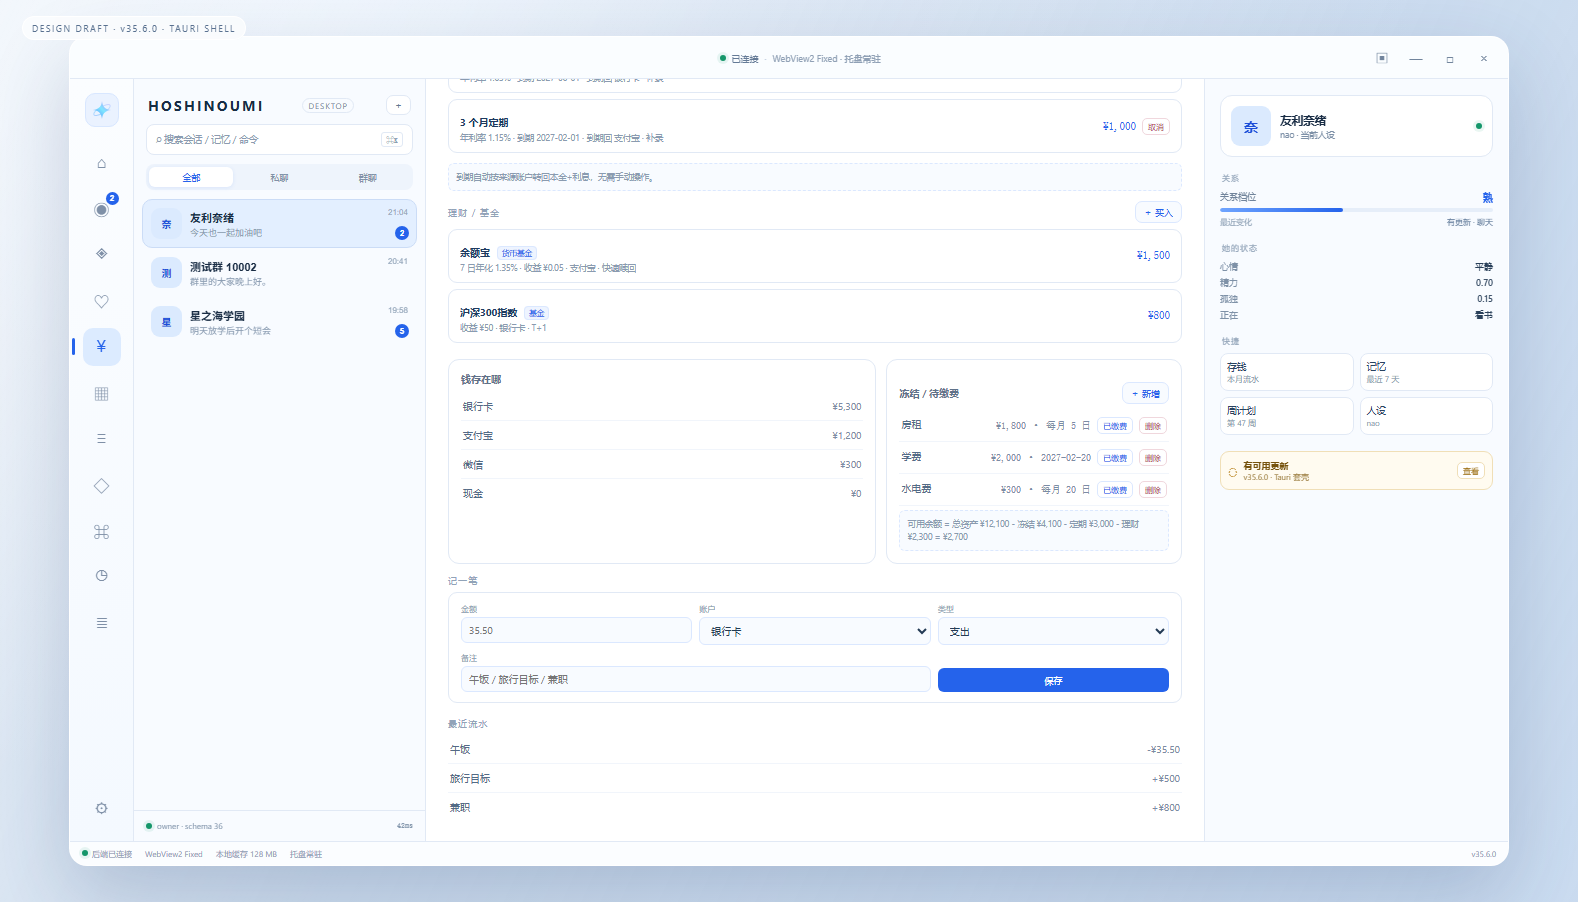
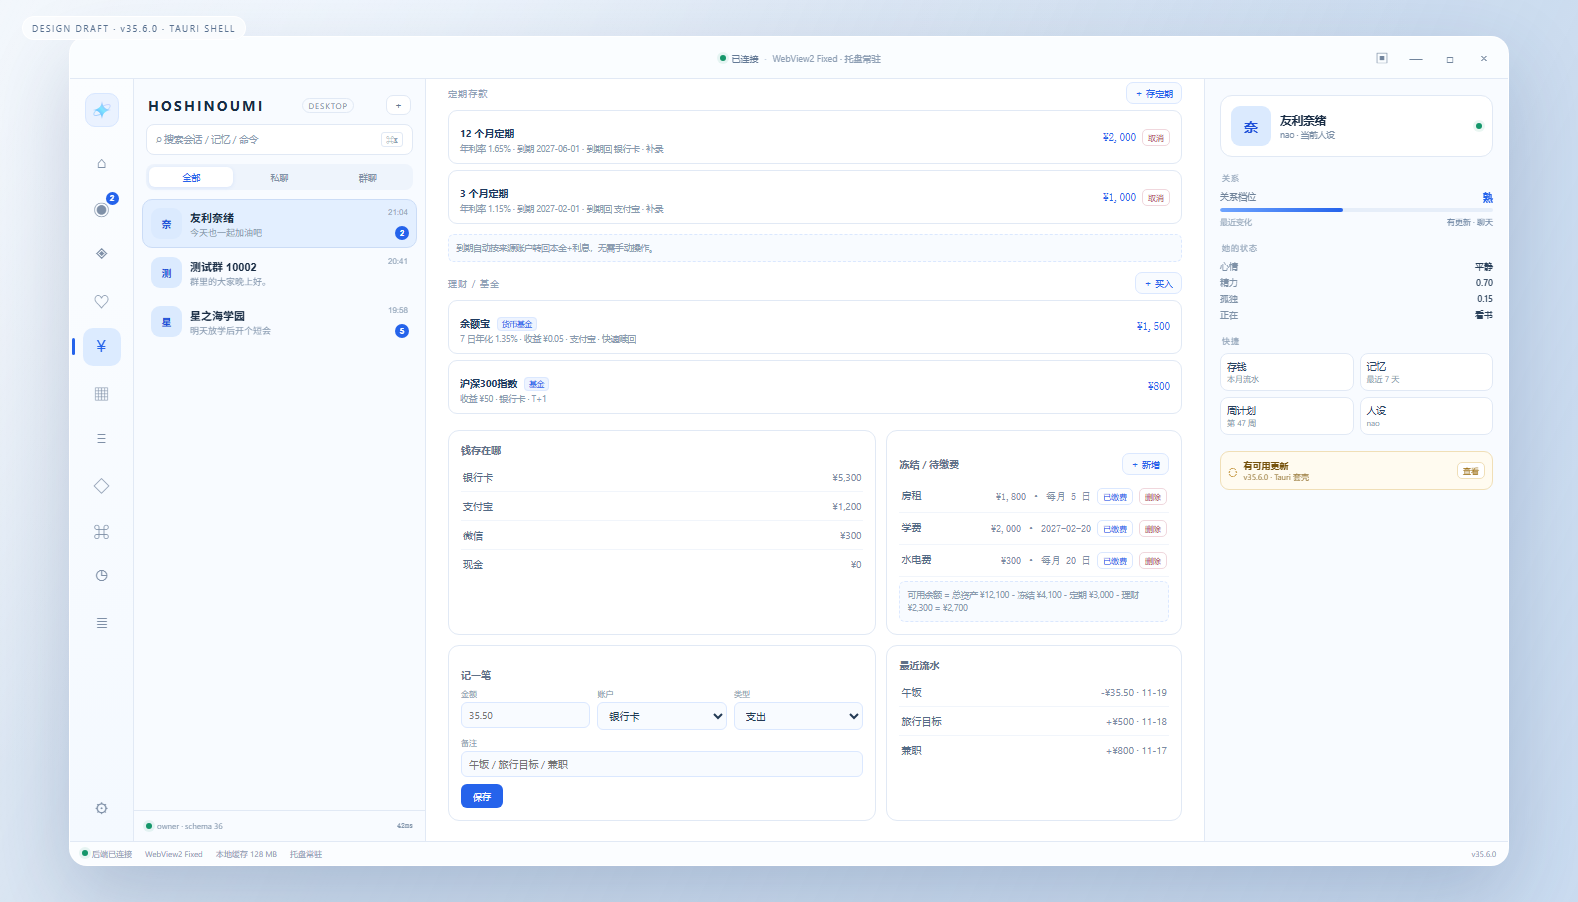
design(v35.6): 记一笔与流水双栏对齐网页

diff --git a/docs/design/v35/desktop/desktop.js b/docs/design/v35/desktop/desktop.js
@@ -83,8 +83,7 @@ function showPage(page){
     `<div class="sav-head"><div class="pv-sec" style="margin:0">定期存款</div><button class="sav-add" data-sav="fixed">＋ 存定期</button></div><div class="sav-list"><div class="sav-row"><div><b>12 个月定期</b><small>年利率 1.65% · 到期 2027-06-01 · 到期回 银行卡 · 补录</small></div><span class="sav-right">¥2,000<button class="sav-act danger" data-sav="cancel">取消</button></span></div><div class="sav-row"><div><b>3 个月定期</b><small>年利率 1.15% · 到期 2027-02-01 · 到期回 支付宝 · 补录</small></div><span class="sav-right">¥1,000<button class="sav-act danger" data-sav="cancel">取消</button></span></div><div class="sav-tip">到期自动按来源账户转回本金+利息，无需手动操作。</div></div>`+
     `<div class="sav-head"><div class="pv-sec" style="margin:0">理财 / 基金</div><button class="sav-add" data-sav="fund">＋ 买入</button></div><div class="sav-list"><div class="sav-row"><div><b>余额宝 <em>货币基金</em></b><small>7 日年化 1.35% · 收益 ¥0.05 · 支付宝 · 快速赎回</small></div><span>¥1,500</span></div><div class="sav-row"><div><b>沪深300指数 <em>基金</em></b><small>收益 ¥50 · 银行卡 · T+1</small></div><span>¥800</span></div></div>`+
     `<div class="mem-cols" style="margin-top:10px"><div class="pv-card"><h3>钱存在哪</h3><div class="pv-row">银行卡<span>¥5,300</span></div><div class="pv-row">支付宝<span>¥1,200</span></div><div class="pv-row">微信<span>¥300</span></div><div class="pv-row">现金<span>¥0</span></div></div><div class="pv-card"><div class="sav-head"><h3>冻结 / 待缴费</h3><button class="sav-add" data-sav="frozen">＋ 新增</button></div><div class="pv-row">房租<span class="sav-right">¥1,800 · 每月 5 日<button class="sav-act" data-sav="pay">已缴费</button><button class="sav-act danger" data-sav="del">删除</button></span></div><div class="pv-row">学费<span class="sav-right">¥2,000 · 2027-02-20<button class="sav-act" data-sav="pay">已缴费</button><button class="sav-act danger" data-sav="del">删除</button></span></div><div class="pv-row">水电费<span class="sav-right">¥300 · 每月 20 日<button class="sav-act" data-sav="pay">已缴费</button><button class="sav-act danger" data-sav="del">删除</button></span></div><div class="sav-tip">可用余额 = 总资产 ¥12,100 - 冻结 ¥4,100 - 定期 ¥3,000 - 理财 ¥2,300 = ¥2,700</div></div></div>`+
-    `<div class="sav-head"><div class="pv-sec" style="margin:0">记一笔</div></div><div class="entry-form"><label>金额<input id="savAmount" type="number" step="0.01" placeholder="35.50"></label><label>账户<select id="savAccount"><option>银行卡</option><option>支付宝</option><option>微信</option><option>现金</option></select></label><label>类型<select id="savKind"><option value="expense">支出</option><option value="income">收入</option><option value="saving">存钱</option></select></label><label class="wide">备注<input id="savNote" placeholder="午饭 / 旅行目标 / 兼职"></label><button id="savEntryBtn">保存</button></div>`+
-    `<div class="pv-sec">最近流水</div><div class="pv-row">午饭<span>-¥35.50</span></div><div class="pv-row">旅行目标<span>+¥500</span></div><div class="pv-row">兼职<span>+¥800</span></div>`
+    `<div class="mem-cols" style="margin-top:10px"><div class="pv-card"><div class="sav-head"><h3>记一笔</h3></div><div class="entry-form"><label>金额<input id="savAmount" type="number" step="0.01" placeholder="35.50"></label><label>账户<select id="savAccount"><option>银行卡</option><option>支付宝</option><option>微信</option><option>现金</option></select></label><label>类型<select id="savKind"><option value="expense">支出</option><option value="income">收入</option><option value="saving">存钱</option></select></label><label class="full">备注<input id="savNote" placeholder="午饭 / 旅行目标 / 兼职"></label><button id="savEntryBtn">保存</button></div></div><div class="pv-card"><h3>最近流水</h3><div class="pv-row">午饭<span>-¥35.50 · 11-19</span></div><div class="pv-row">旅行目标<span>+¥500 · 11-18</span></div><div class="pv-row">兼职<span>+¥800 · 11-17</span></div></div></div>`
   else if(page==='weekly') {
     const times = ['08:00-08:45','08:55-09:40','10:00-10:45','10:55-11:40','14:00-14:45','14:55-15:40'];
     const days = ['周一','周二','周三','周四','周五','周六','周日'];

diff --git a/docs/design/v35/desktop/desktop.css b/docs/design/v35/desktop/desktop.css
@@ -68,6 +68,6 @@ body:before{content:"";position:fixed;inset:0;background:linear-gradient(115deg,
 
 .sav-head{display:flex;align-items:center;justify-content:space-between;gap:8px;margin:10px 0 6px}.sav-head h3{margin:0}.sav-add{border:1px solid #dbe8ff;background:#f8fbff;color:var(--blue);border-radius:7px;padding:4px 8px;font:9px var(--font);cursor:pointer}.sav-add:hover{background:#eef4ff}.sav-right{display:flex;align-items:center;gap:6px;font-family:ui-monospace,monospace;font-size:10px;color:#2563eb}.sav-act{border:1px solid #dbe8ff;background:#fff;color:#2563eb;border-radius:5px;padding:2px 5px;font:8px var(--font);cursor:pointer}.sav-act.danger{border-color:#f0d7dd;color:#b23b52}.sav-act:hover{background:#eef4ff}
 
-.entry-form{display:grid;grid-template-columns:1fr 1fr 1fr;gap:7px;border:1px solid var(--line);border-radius:9px;background:#fff;padding:10px 12px;margin-bottom:8px}.entry-form label{font-size:8px;color:#8a9bb0}.entry-form label.wide{grid-column:1/3}.entry-form input,.entry-form select{display:block;width:100%;margin-top:3px;border:1px solid #dbe8ff;border-radius:6px;background:#f8fbff;color:#243b55;font:10px var(--font);padding:5px 7px;outline:0}.entry-form button{align-self:end;border:0;background:var(--blue);color:#fff;border-radius:6px;padding:6px 10px;font:9px var(--font);cursor:pointer}
+.entry-form{display:grid;grid-template-columns:1fr 1fr 1fr;gap:7px;padding:0;margin-bottom:0}.entry-form label{font-size:8px;color:#8a9bb0}.entry-form label.full{grid-column:1/-1}.entry-form input,.entry-form select{display:block;width:100%;margin-top:3px;border:1px solid #dbe8ff;border-radius:6px;background:#f8fbff;color:#243b55;font:10px var(--font);padding:5px 7px;outline:0}.entry-form button{justify-self:start;border:0;background:var(--blue);color:#fff;border-radius:6px;padding:6px 12px;font:9px var(--font);cursor:pointer}
 
 .sav-top{display:flex;justify-content:flex-end;margin:-34px 0 8px}.sav-top button{border:1px solid #dbe8ff;background:#fff;color:var(--blue);border-radius:7px;padding:4px 9px;font:9px var(--font);cursor:pointer}.sav-top button:hover{background:#eef4ff}
